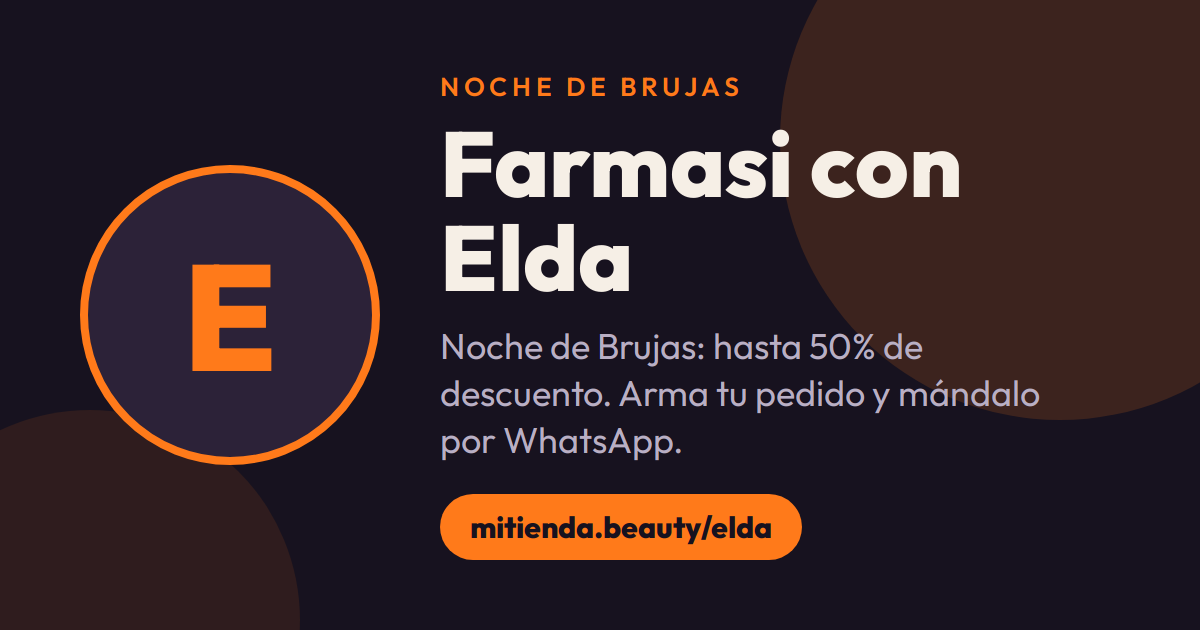
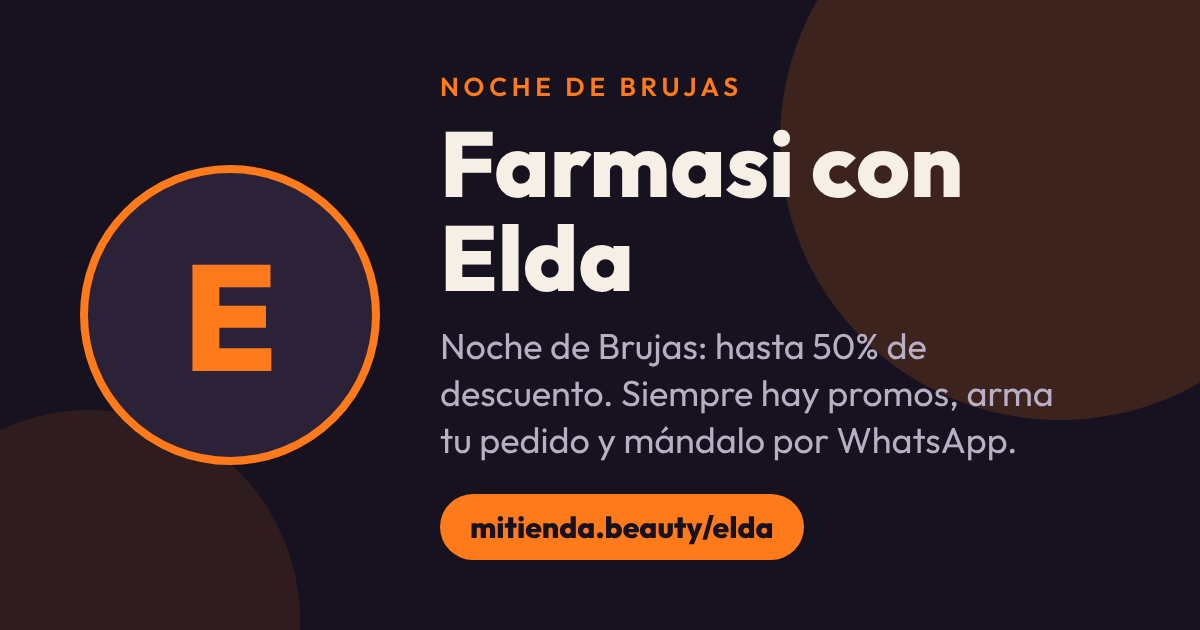
Vistas previas: aclarar que siempre hay promos (no solo eventos)
Claude-Session: https://claude.ai/code/session_01WesQxjD6cAK6tdYb2aBDD2

diff --git a/anaofelia/index.html b/anaofelia/index.html
@@ -10,15 +10,15 @@
 <title>Farmasi con Ana Ofelia</title>
 <meta name="description" content="Venta especial de maquillaje con Ana Ofelia. Elige tus productos y manda tu pedido por WhatsApp.">
 <meta property="og:title" content="Farmasi con Ana Ofelia">
-<meta property="og:description" content="Noche de Brujas: hasta 50% de descuento. Arma tu pedido y mándalo por WhatsApp.">
+<meta property="og:description" content="Noche de Brujas: hasta 50% de descuento. Siempre hay promos, arma tu pedido y mándalo por WhatsApp.">
 <meta property="og:type" content="website">
 <meta property="og:locale" content="es_MX">
 <meta property="og:url" content="https://mitienda.beauty/anaofelia/">
-<meta property="og:image" content="https://mitienda.beauty/og/anaofelia.png?v=2f812956">
+<meta property="og:image" content="https://mitienda.beauty/og/anaofelia.png?v=c62739c2">
 <meta property="og:image:width" content="1200">
 <meta property="og:image:height" content="630">
 <meta name="twitter:card" content="summary_large_image">
-<meta name="twitter:image" content="https://mitienda.beauty/og/anaofelia.png?v=2f812956">
+<meta name="twitter:image" content="https://mitienda.beauty/og/anaofelia.png?v=c62739c2">
 <link rel="preconnect" href="https://fonts.googleapis.com">
 <link rel="preconnect" href="https://fonts.gstatic.com" crossorigin>
 <link href="https://fonts.googleapis.com/css2?family=IBM+Plex+Mono:wght@400;500;700&family=Outfit:wght@300;400;500;600;700;800&display=swap" rel="stylesheet">

diff --git a/anagomez/index.html b/anagomez/index.html
@@ -10,15 +10,15 @@
 <title>Farmasi con Ana Gómez</title>
 <meta name="description" content="Venta especial de maquillaje con Ana Gómez. Elige tus productos y manda tu pedido por WhatsApp.">
 <meta property="og:title" content="Farmasi con Ana Gómez">
-<meta property="og:description" content="Noche de Brujas: hasta 50% de descuento. Arma tu pedido y mándalo por WhatsApp.">
+<meta property="og:description" content="Noche de Brujas: hasta 50% de descuento. Siempre hay promos, arma tu pedido y mándalo por WhatsApp.">
 <meta property="og:type" content="website">
 <meta property="og:locale" content="es_MX">
 <meta property="og:url" content="https://mitienda.beauty/anagomez/">
-<meta property="og:image" content="https://mitienda.beauty/og/anagomez.png?v=790cc8ed">
+<meta property="og:image" content="https://mitienda.beauty/og/anagomez.png?v=53a47ce3">
 <meta property="og:image:width" content="1200">
 <meta property="og:image:height" content="630">
 <meta name="twitter:card" content="summary_large_image">
-<meta name="twitter:image" content="https://mitienda.beauty/og/anagomez.png?v=790cc8ed">
+<meta name="twitter:image" content="https://mitienda.beauty/og/anagomez.png?v=53a47ce3">
 <link rel="preconnect" href="https://fonts.googleapis.com">
 <link rel="preconnect" href="https://fonts.gstatic.com" crossorigin>
 <link href="https://fonts.googleapis.com/css2?family=IBM+Plex+Mono:wght@400;500;700&family=Outfit:wght@300;400;500;600;700;800&display=swap" rel="stylesheet">

diff --git a/andrea/index.html b/andrea/index.html
@@ -10,15 +10,15 @@
 <title>Farmasi con Andrea</title>
 <meta name="description" content="Venta especial de maquillaje con Andrea. Elige tus productos y manda tu pedido por WhatsApp.">
 <meta property="og:title" content="Farmasi con Andrea">
-<meta property="og:description" content="Noche de Brujas: hasta 50% de descuento. Arma tu pedido y mándalo por WhatsApp.">
+<meta property="og:description" content="Noche de Brujas: hasta 50% de descuento. Siempre hay promos, arma tu pedido y mándalo por WhatsApp.">
 <meta property="og:type" content="website">
 <meta property="og:locale" content="es_MX">
 <meta property="og:url" content="https://mitienda.beauty/andrea/">
-<meta property="og:image" content="https://mitienda.beauty/og/andrea.png?v=c2f90e29">
+<meta property="og:image" content="https://mitienda.beauty/og/andrea.png?v=1976e918">
 <meta property="og:image:width" content="1200">
 <meta property="og:image:height" content="630">
 <meta name="twitter:card" content="summary_large_image">
-<meta name="twitter:image" content="https://mitienda.beauty/og/andrea.png?v=c2f90e29">
+<meta name="twitter:image" content="https://mitienda.beauty/og/andrea.png?v=1976e918">
 <link rel="preconnect" href="https://fonts.googleapis.com">
 <link rel="preconnect" href="https://fonts.gstatic.com" crossorigin>
 <link href="https://fonts.googleapis.com/css2?family=IBM+Plex+Mono:wght@400;500;700&family=Outfit:wght@300;400;500;600;700;800&display=swap" rel="stylesheet">

diff --git a/silvia/index.html b/silvia/index.html
@@ -10,15 +10,15 @@
 <title>Farmasi con Silvia</title>
 <meta name="description" content="Venta especial de maquillaje con Silvia. Elige tus productos y manda tu pedido por WhatsApp.">
 <meta property="og:title" content="Farmasi con Silvia">
-<meta property="og:description" content="Noche de Brujas: hasta 50% de descuento. Arma tu pedido y mándalo por WhatsApp.">
+<meta property="og:description" content="Noche de Brujas: hasta 50% de descuento. Siempre hay promos, arma tu pedido y mándalo por WhatsApp.">
 <meta property="og:type" content="website">
 <meta property="og:locale" content="es_MX">
 <meta property="og:url" content="https://mitienda.beauty/silvia/">
-<meta property="og:image" content="https://mitienda.beauty/og/silvia.png?v=daaf4e8f">
+<meta property="og:image" content="https://mitienda.beauty/og/silvia.png?v=45352b0a">
 <meta property="og:image:width" content="1200">
 <meta property="og:image:height" content="630">
 <meta name="twitter:card" content="summary_large_image">
-<meta name="twitter:image" content="https://mitienda.beauty/og/silvia.png?v=daaf4e8f">
+<meta name="twitter:image" content="https://mitienda.beauty/og/silvia.png?v=45352b0a">
 <link rel="preconnect" href="https://fonts.googleapis.com">
 <link rel="preconnect" href="https://fonts.gstatic.com" crossorigin>
 <link href="https://fonts.googleapis.com/css2?family=IBM+Plex+Mono:wght@400;500;700&family=Outfit:wght@300;400;500;600;700;800&display=swap" rel="stylesheet">

diff --git a/yazmin/index.html b/yazmin/index.html
@@ -10,15 +10,15 @@
 <title>Farmasi con Yazmin</title>
 <meta name="description" content="Venta especial de maquillaje con Yazmin. Elige tus productos y manda tu pedido por WhatsApp.">
 <meta property="og:title" content="Farmasi con Yazmin">
-<meta property="og:description" content="Noche de Brujas: hasta 50% de descuento. Arma tu pedido y mándalo por WhatsApp.">
+<meta property="og:description" content="Noche de Brujas: hasta 50% de descuento. Siempre hay promos, arma tu pedido y mándalo por WhatsApp.">
 <meta property="og:type" content="website">
 <meta property="og:locale" content="es_MX">
 <meta property="og:url" content="https://mitienda.beauty/yazmin/">
-<meta property="og:image" content="https://mitienda.beauty/og/yazmin.png?v=191c097e">
+<meta property="og:image" content="https://mitienda.beauty/og/yazmin.png?v=a36bca44">
 <meta property="og:image:width" content="1200">
 <meta property="og:image:height" content="630">
 <meta name="twitter:card" content="summary_large_image">
-<meta name="twitter:image" content="https://mitienda.beauty/og/yazmin.png?v=191c097e">
+<meta name="twitter:image" content="https://mitienda.beauty/og/yazmin.png?v=a36bca44">
 <link rel="preconnect" href="https://fonts.googleapis.com">
 <link rel="preconnect" href="https://fonts.gstatic.com" crossorigin>
 <link href="https://fonts.googleapis.com/css2?family=IBM+Plex+Mono:wght@400;500;700&family=Outfit:wght@300;400;500;600;700;800&display=swap" rel="stylesheet">

diff --git a/danny/index.html b/danny/index.html
@@ -10,15 +10,15 @@
 <title>Farmasi con Danny</title>
 <meta name="description" content="Venta especial de maquillaje con Danny. Elige tus productos y manda tu pedido por WhatsApp.">
 <meta property="og:title" content="Farmasi con Danny">
-<meta property="og:description" content="Noche de Brujas: hasta 50% de descuento. Arma tu pedido y mándalo por WhatsApp.">
+<meta property="og:description" content="Noche de Brujas: hasta 50% de descuento. Siempre hay promos, arma tu pedido y mándalo por WhatsApp.">
 <meta property="og:type" content="website">
 <meta property="og:locale" content="es_MX">
 <meta property="og:url" content="https://mitienda.beauty/danny/">
-<meta property="og:image" content="https://mitienda.beauty/og/danny.png?v=d6675519">
+<meta property="og:image" content="https://mitienda.beauty/og/danny.png?v=4346892c">
 <meta property="og:image:width" content="1200">
 <meta property="og:image:height" content="630">
 <meta name="twitter:card" content="summary_large_image">
-<meta name="twitter:image" content="https://mitienda.beauty/og/danny.png?v=d6675519">
+<meta name="twitter:image" content="https://mitienda.beauty/og/danny.png?v=4346892c">
 <link rel="preconnect" href="https://fonts.googleapis.com">
 <link rel="preconnect" href="https://fonts.gstatic.com" crossorigin>
 <link href="https://fonts.googleapis.com/css2?family=IBM+Plex+Mono:wght@400;500;700&family=Outfit:wght@300;400;500;600;700;800&display=swap" rel="stylesheet">

diff --git a/laura/index.html b/laura/index.html
@@ -10,15 +10,15 @@
 <title>Farmasi con Laura</title>
 <meta name="description" content="Venta especial de maquillaje con Laura. Elige tus productos y manda tu pedido por WhatsApp.">
 <meta property="og:title" content="Farmasi con Laura">
-<meta property="og:description" content="Noche de Brujas: hasta 50% de descuento. Arma tu pedido y mándalo por WhatsApp.">
+<meta property="og:description" content="Noche de Brujas: hasta 50% de descuento. Siempre hay promos, arma tu pedido y mándalo por WhatsApp.">
 <meta property="og:type" content="website">
 <meta property="og:locale" content="es_MX">
 <meta property="og:url" content="https://mitienda.beauty/laura/">
-<meta property="og:image" content="https://mitienda.beauty/og/laura.png?v=3bdb1864">
+<meta property="og:image" content="https://mitienda.beauty/og/laura.png?v=088fef9c">
 <meta property="og:image:width" content="1200">
 <meta property="og:image:height" content="630">
 <meta name="twitter:card" content="summary_large_image">
-<meta name="twitter:image" content="https://mitienda.beauty/og/laura.png?v=3bdb1864">
+<meta name="twitter:image" content="https://mitienda.beauty/og/laura.png?v=088fef9c">
 <link rel="preconnect" href="https://fonts.googleapis.com">
 <link rel="preconnect" href="https://fonts.gstatic.com" crossorigin>
 <link href="https://fonts.googleapis.com/css2?family=IBM+Plex+Mono:wght@400;500;700&family=Outfit:wght@300;400;500;600;700;800&display=swap" rel="stylesheet">

diff --git a/nancy/index.html b/nancy/index.html
@@ -10,15 +10,15 @@
 <title>Farmasi con Nancy</title>
 <meta name="description" content="Venta especial de maquillaje con Nancy. Elige tus productos y manda tu pedido por WhatsApp.">
 <meta property="og:title" content="Farmasi con Nancy">
-<meta property="og:description" content="Noche de Brujas: hasta 50% de descuento. Arma tu pedido y mándalo por WhatsApp.">
+<meta property="og:description" content="Noche de Brujas: hasta 50% de descuento. Siempre hay promos, arma tu pedido y mándalo por WhatsApp.">
 <meta property="og:type" content="website">
 <meta property="og:locale" content="es_MX">
 <meta property="og:url" content="https://mitienda.beauty/nancy/">
-<meta property="og:image" content="https://mitienda.beauty/og/nancy.png?v=cd437289">
+<meta property="og:image" content="https://mitienda.beauty/og/nancy.png?v=d80d01f8">
 <meta property="og:image:width" content="1200">
 <meta property="og:image:height" content="630">
 <meta name="twitter:card" content="summary_large_image">
-<meta name="twitter:image" content="https://mitienda.beauty/og/nancy.png?v=cd437289">
+<meta name="twitter:image" content="https://mitienda.beauty/og/nancy.png?v=d80d01f8">
 <link rel="preconnect" href="https://fonts.googleapis.com">
 <link rel="preconnect" href="https://fonts.gstatic.com" crossorigin>
 <link href="https://fonts.googleapis.com/css2?family=IBM+Plex+Mono:wght@400;500;700&family=Outfit:wght@300;400;500;600;700;800&display=swap" rel="stylesheet">

diff --git a/sebas/index.html b/sebas/index.html
@@ -10,15 +10,15 @@
 <title>Farmasi con Sebas</title>
 <meta name="description" content="Venta especial de maquillaje con Sebas. Elige tus productos y manda tu pedido por WhatsApp.">
 <meta property="og:title" content="Farmasi con Sebas">
-<meta property="og:description" content="Noche de Brujas: hasta 50% de descuento. Arma tu pedido y mándalo por WhatsApp.">
+<meta property="og:description" content="Noche de Brujas: hasta 50% de descuento. Siempre hay promos, arma tu pedido y mándalo por WhatsApp.">
 <meta property="og:type" content="website">
 <meta property="og:locale" content="es_MX">
 <meta property="og:url" content="https://mitienda.beauty/sebas/">
-<meta property="og:image" content="https://mitienda.beauty/og/sebas.png?v=481a6460">
+<meta property="og:image" content="https://mitienda.beauty/og/sebas.png?v=8613c156">
 <meta property="og:image:width" content="1200">
 <meta property="og:image:height" content="630">
 <meta name="twitter:card" content="summary_large_image">
-<meta name="twitter:image" content="https://mitienda.beauty/og/sebas.png?v=481a6460">
+<meta name="twitter:image" content="https://mitienda.beauty/og/sebas.png?v=8613c156">
 <link rel="preconnect" href="https://fonts.googleapis.com">
 <link rel="preconnect" href="https://fonts.gstatic.com" crossorigin>
 <link href="https://fonts.googleapis.com/css2?family=IBM+Plex+Mono:wght@400;500;700&family=Outfit:wght@300;400;500;600;700;800&display=swap" rel="stylesheet">

diff --git a/sel/index.html b/sel/index.html
@@ -10,15 +10,15 @@
 <title>Farmasi con Selene</title>
 <meta name="description" content="Venta especial de maquillaje con Selene. Elige tus productos y manda tu pedido por WhatsApp.">
 <meta property="og:title" content="Farmasi con Selene">
-<meta property="og:description" content="Noche de Brujas: hasta 50% de descuento. Arma tu pedido y mándalo por WhatsApp.">
+<meta property="og:description" content="Noche de Brujas: hasta 50% de descuento. Siempre hay promos, arma tu pedido y mándalo por WhatsApp.">
 <meta property="og:type" content="website">
 <meta property="og:locale" content="es_MX">
 <meta property="og:url" content="https://mitienda.beauty/sel/">
-<meta property="og:image" content="https://mitienda.beauty/og/sel.png?v=fb8310a5">
+<meta property="og:image" content="https://mitienda.beauty/og/sel.png?v=d3c1ddfd">
 <meta property="og:image:width" content="1200">
 <meta property="og:image:height" content="630">
 <meta name="twitter:card" content="summary_large_image">
-<meta name="twitter:image" content="https://mitienda.beauty/og/sel.png?v=fb8310a5">
+<meta name="twitter:image" content="https://mitienda.beauty/og/sel.png?v=d3c1ddfd">
 <link rel="preconnect" href="https://fonts.googleapis.com">
 <link rel="preconnect" href="https://fonts.gstatic.com" crossorigin>
 <link href="https://fonts.googleapis.com/css2?family=IBM+Plex+Mono:wght@400;500;700&family=Outfit:wght@300;400;500;600;700;800&display=swap" rel="stylesheet">

diff --git a/andi/index.html b/andi/index.html
@@ -10,15 +10,15 @@
 <title>Farmasi con Andi</title>
 <meta name="description" content="Venta especial de maquillaje con Andi. Elige tus productos y manda tu pedido por WhatsApp.">
 <meta property="og:title" content="Farmasi con Andi">
-<meta property="og:description" content="Noche de Brujas: hasta 50% de descuento. Arma tu pedido y mándalo por WhatsApp.">
+<meta property="og:description" content="Noche de Brujas: hasta 50% de descuento. Siempre hay promos, arma tu pedido y mándalo por WhatsApp.">
 <meta property="og:type" content="website">
 <meta property="og:locale" content="es_MX">
 <meta property="og:url" content="https://mitienda.beauty/andi/">
-<meta property="og:image" content="https://mitienda.beauty/og/andi.png?v=de1876ef">
+<meta property="og:image" content="https://mitienda.beauty/og/andi.png?v=9662d398">
 <meta property="og:image:width" content="1200">
 <meta property="og:image:height" content="630">
 <meta name="twitter:card" content="summary_large_image">
-<meta name="twitter:image" content="https://mitienda.beauty/og/andi.png?v=de1876ef">
+<meta name="twitter:image" content="https://mitienda.beauty/og/andi.png?v=9662d398">
 <link rel="preconnect" href="https://fonts.googleapis.com">
 <link rel="preconnect" href="https://fonts.gstatic.com" crossorigin>
 <link href="https://fonts.googleapis.com/css2?family=IBM+Plex+Mono:wght@400;500;700&family=Outfit:wght@300;400;500;600;700;800&display=swap" rel="stylesheet">

diff --git a/elda/index.html b/elda/index.html
@@ -10,15 +10,15 @@
 <title>Farmasi con Elda</title>
 <meta name="description" content="Venta especial de maquillaje con Elda. Elige tus productos y manda tu pedido por WhatsApp.">
 <meta property="og:title" content="Farmasi con Elda">
-<meta property="og:description" content="Noche de Brujas: hasta 50% de descuento. Arma tu pedido y mándalo por WhatsApp.">
+<meta property="og:description" content="Noche de Brujas: hasta 50% de descuento. Siempre hay promos, arma tu pedido y mándalo por WhatsApp.">
 <meta property="og:type" content="website">
 <meta property="og:locale" content="es_MX">
 <meta property="og:url" content="https://mitienda.beauty/elda/">
-<meta property="og:image" content="https://mitienda.beauty/og/elda.png?v=e75b691b">
+<meta property="og:image" content="https://mitienda.beauty/og/elda.png?v=7ce83822">
 <meta property="og:image:width" content="1200">
 <meta property="og:image:height" content="630">
 <meta name="twitter:card" content="summary_large_image">
-<meta name="twitter:image" content="https://mitienda.beauty/og/elda.png?v=e75b691b">
+<meta name="twitter:image" content="https://mitienda.beauty/og/elda.png?v=7ce83822">
 <link rel="preconnect" href="https://fonts.googleapis.com">
 <link rel="preconnect" href="https://fonts.gstatic.com" crossorigin>
 <link href="https://fonts.googleapis.com/css2?family=IBM+Plex+Mono:wght@400;500;700&family=Outfit:wght@300;400;500;600;700;800&display=swap" rel="stylesheet">
